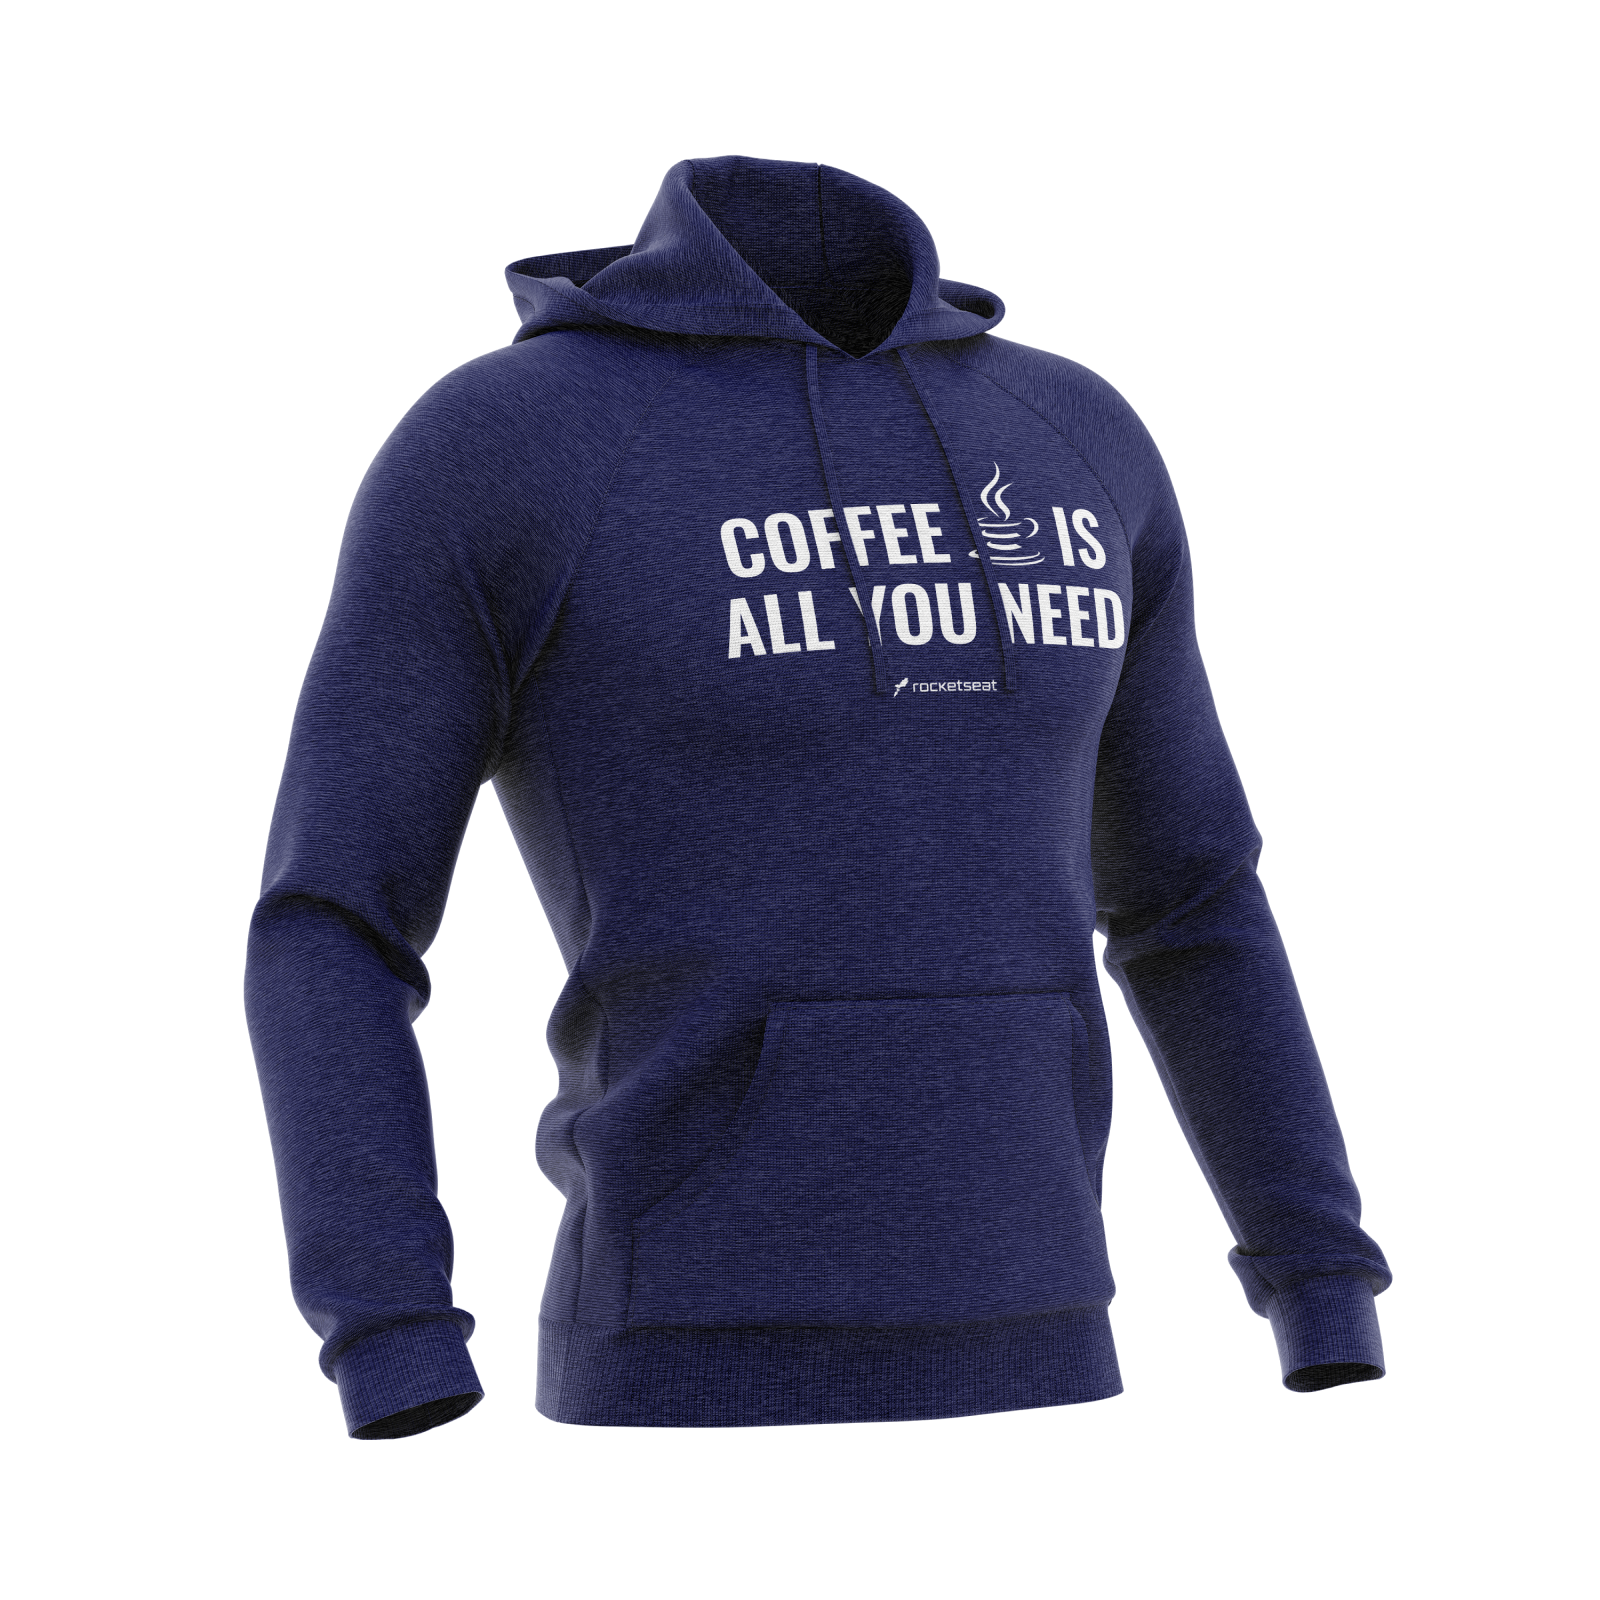
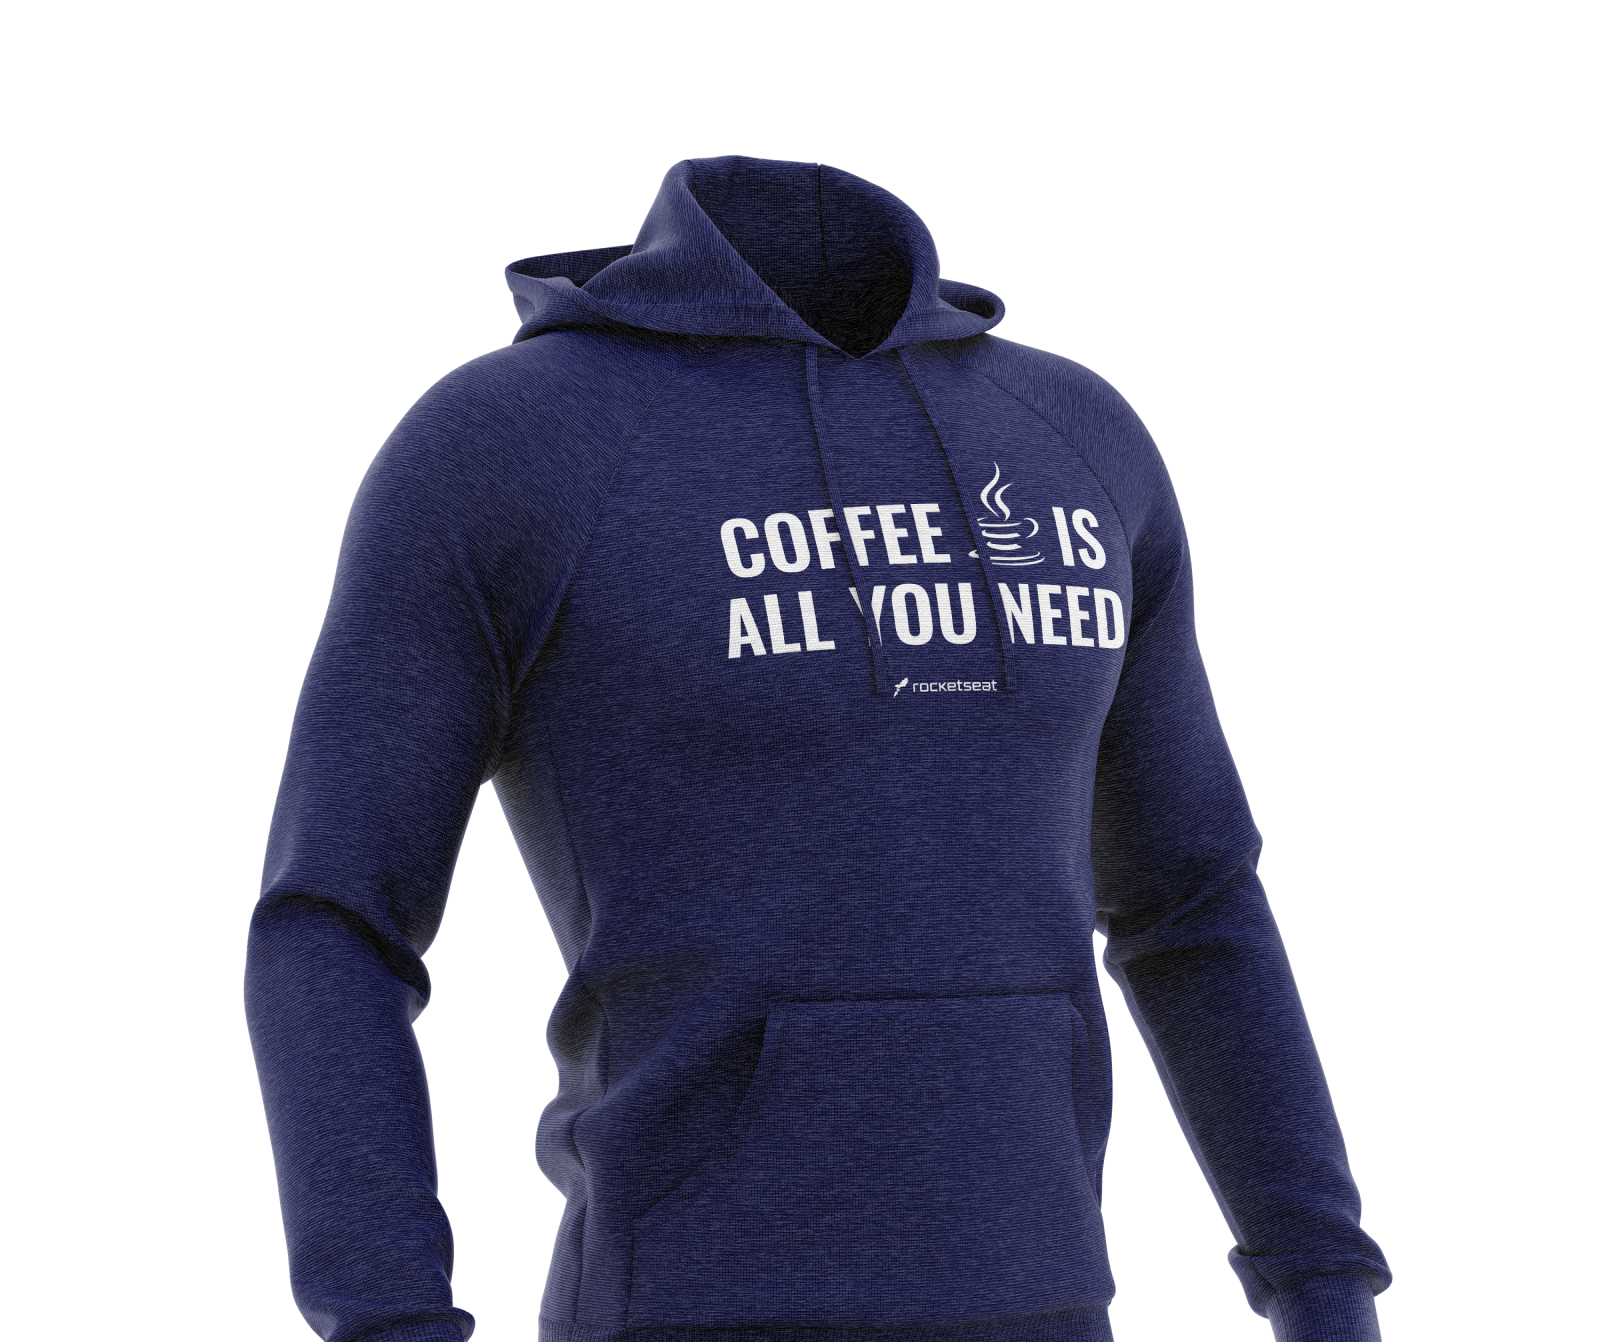
fix: images size creating scroll in page

Changed region(s): [[0.125, 0.0917, 0.875, 1.0]]

diff --git a/src/app/(store)/(home)/page.tsx b/src/app/(store)/(home)/page.tsx
@@ -22,7 +22,7 @@ export default async function Home() {
   const [highlightedProduct, ...otherProducts] = await getFeaturedproducts();
 
   return (
-    <div className="grid max-h-[860px] grid-cols-9 grid-rows-6 gap-6">
+    <div className="grid max-h-[820px] grid-cols-9 grid-rows-6 gap-6">
       <Link
         href={`/product/${highlightedProduct.slug}`}
         className="group relative col-span-6 row-span-6 rounded-lg bg-zinc-900 overflow-hidden flex justify-center items-end"

diff --git a/src/app/(store)/product/[slug]/page.tsx b/src/app/(store)/product/[slug]/page.tsx
@@ -41,7 +41,7 @@ export default async function ProductPage({ params }: ProductProps) {
    const product = await getProduct(params.slug);
 
    return (
-      <div className="relative grid max-h-[860px] grid-cols-3">
+      <div className="relative grid max-h-[820px] grid-cols-3">
          <div className="col-span-2 overflow-hidden">
             <Image
                src={product.image}
